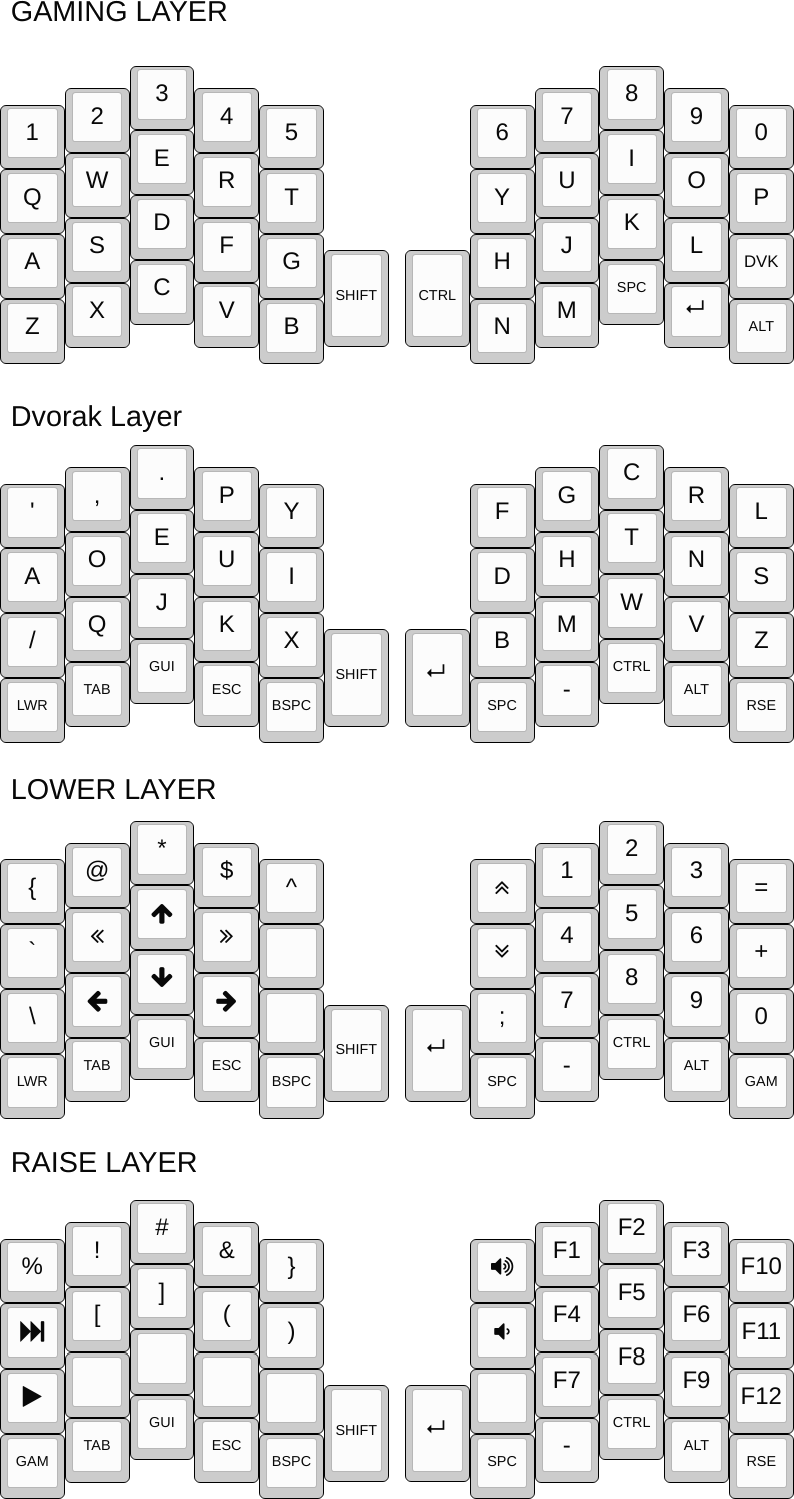
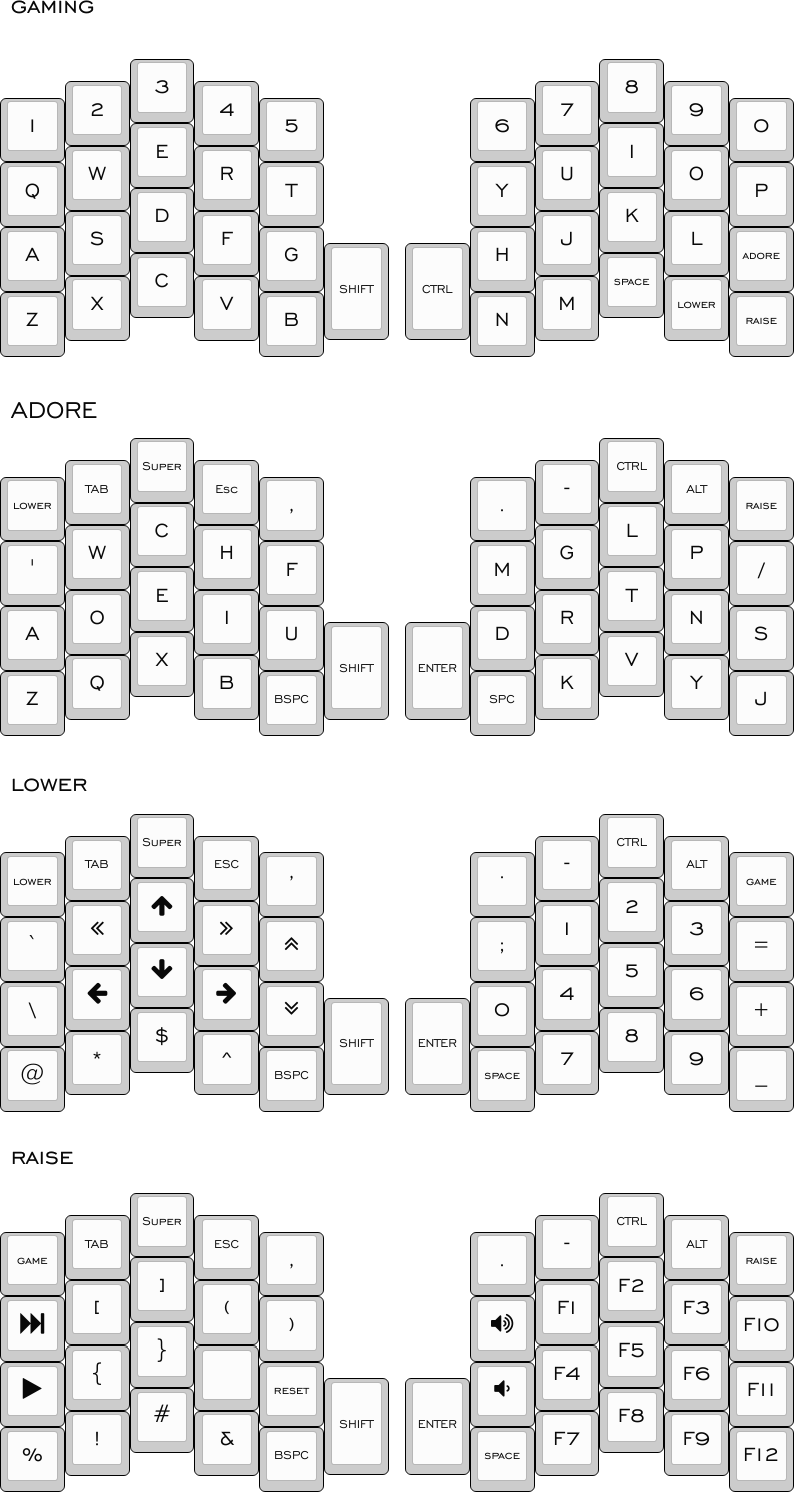
Switch from Dvorak to ADORE and redo the layout a bit
What used to be the bottom row, mostly moved to the top, because my hands keep
gravitating to the bottom. Switching to ADORE fits the layout of the Atreus just
right, as it leaves the key right beside the big thumb keys reusable, and I can
place backspace and space on those locations, where my muscle memory wants them.

diff --git a/src/keymap.h b/src/keymap.h
@@ -29,6 +29,7 @@
 #define Key_And LSHIFT(Key_7)
 #define Key_Star LSHIFT(Key_8)
 #define Key_Plus LSHIFT(Key_Equals)
+#define Key_Underscore LSHIFT(Key_Minus)
 
 /* *INDENT-OFF* */
 KEYMAPS(
@@ -39,48 +40,48 @@ KEYMAPS(
       ,Key_A  ,Key_S ,Key_D ,Key_F ,Key_G
       ,Key_Z  ,Key_X ,Key_C ,Key_V ,Key_B ,Key_LeftShift
 
-                       ,Key_6 ,Key_7 ,Key_8     ,Key_9     ,Key_0
-                       ,Key_Y ,Key_U ,Key_I     ,Key_O     ,Key_P
-                       ,Key_H ,Key_J ,Key_K     ,Key_L     ,LockLayer(DVORAK)
-      ,Key_LeftControl ,Key_N ,Key_M ,Key_Space ,Key_Enter ,Key_LeftAlt
+                       ,Key_6 ,Key_7 ,Key_8     ,Key_9      ,Key_0
+                       ,Key_Y ,Key_U ,Key_I     ,Key_O      ,Key_P
+                       ,Key_H ,Key_J ,Key_K     ,Key_L      ,LockLayer(ADORE)
+      ,Key_LeftControl ,Key_N ,Key_M ,Key_Space ,OSL(LOWER) ,OSL(RAISE)
   ),
 
-  [DVORAK] = KEYMAP_STACKED(
-       Key_Quote    ,Key_Comma ,Key_Period  ,Key_P   ,Key_Y
-      ,Key_A        ,Key_O     ,Key_E       ,Key_U   ,Key_I
-      ,Key_Slash    ,Key_Q     ,Key_J       ,Key_K   ,Key_X
-      ,OSL(LOWER)   ,Key_Tab   ,Key_LeftGui ,Key_Esc ,Key_Backspace ,OSM(LeftShift)
+  [ADORE] = KEYMAP_STACKED(
+       OSL(LOWER) ,Key_Tab ,Key_LeftGui ,Key_Esc ,Key_Comma
+      ,Key_Quote  ,Key_W   ,Key_C       ,Key_H   ,Key_F
+      ,Key_A      ,Key_O   ,Key_E       ,Key_I   ,Key_U
+      ,Key_Z      ,Key_Q   ,Key_X       ,Key_B   ,Key_Backspace ,OSM(LeftShift)
 
-                 ,Key_F     ,Key_G     ,Key_C            ,Key_R        ,Key_L
-                 ,Key_D     ,Key_H     ,Key_T            ,Key_N        ,Key_S
-                 ,Key_B     ,Key_M     ,Key_W            ,Key_V        ,Key_Z
-      ,Key_Enter ,Key_Space ,Key_Minus ,OSM(LeftControl) ,OSM(LeftAlt) ,OSL(RAISE)
+                 ,Key_Period ,Key_Minus ,OSM(LeftControl) ,OSM(LeftAlt) ,OSL(RAISE)
+                 ,Key_M      ,Key_G     ,Key_L            ,Key_P        ,Key_Slash
+                 ,Key_D      ,Key_R     ,Key_T            ,Key_N        ,Key_S
+     ,Key_Enter  ,Key_Space  ,Key_K     ,Key_V            ,Key_Y        ,Key_J
   ),
 
   [LOWER] = KEYMAP_STACKED
   (
-       Key_LeftCurlyBracket  ,Key_At        ,Key_Star      ,Key_Dollar     ,Key_Caret
-      ,Key_Backtick          ,Key_Home      ,Key_UpArrow   ,Key_End        ,XXX
-      ,Key_Backslash         ,Key_LeftArrow ,Key_DownArrow ,Key_RightArrow ,XXX
-      ,___                   ,___           ,___           ,___            ,___       ,___
+       OSL(LOWER)    ,Key_Tab       ,Key_LeftGui   ,Key_Esc        ,Key_Comma
+      ,Key_Backtick  ,Key_Home      ,Key_UpArrow   ,Key_End        ,Key_PageUp
+      ,Key_Backslash ,Key_LeftArrow ,Key_DownArrow ,Key_RightArrow ,Key_PageDown
+      ,Key_At        ,Key_Star      ,Key_Dollar    ,Key_Caret      ,Key_Backspace ,OSM(LeftShift)
 
-           ,Key_PageUp    ,Key_1 ,Key_2 ,Key_3 ,Key_Equals
-           ,Key_PageDown  ,Key_4 ,Key_5 ,Key_6 ,Key_Plus
-           ,Key_Semicolon ,Key_7 ,Key_8 ,Key_9 ,Key_0
-      ,___ ,___           ,___   ,___   ,___   ,M(M_GAMING)
+                 ,Key_Period    ,Key_Minus ,OSM(LeftControl) ,OSM(LeftAlt) ,M(M_GAMING)
+                 ,Key_Semicolon ,Key_1     ,Key_2            ,Key_3        ,Key_Equals
+                 ,Key_0         ,Key_4     ,Key_5            ,Key_6        ,Key_Plus
+      ,Key_Enter ,Key_Space     ,Key_7     ,Key_8            ,Key_9        ,Key_Underscore
    ),
 
   [RAISE] = KEYMAP_STACKED
   (
-       Key_Percent             ,Key_Exclamation ,Key_Hash         ,Key_And       ,Key_RightCurlyBracket
-      ,Consumer_ScanNextTrack  ,Key_LeftBracket ,Key_RightBracket ,Key_LeftParen ,Key_RightParen
-      ,Consumer_PlaySlashPause ,XXX             ,XXX              ,XXX           ,M(M_RESET)
-      ,M(M_GAMING)             ,___             ,___              ,___           ,___                   ,___
+       M(M_GAMING)             ,Key_Tab              ,Key_LeftGui           ,Key_Esc       ,Key_Comma
+      ,Consumer_ScanNextTrack  ,Key_LeftBracket      ,Key_RightBracket      ,Key_LeftParen ,Key_RightParen
+      ,Consumer_PlaySlashPause ,Key_LeftCurlyBracket ,Key_RightCurlyBracket ,XXX           ,M(M_RESET)
+      ,Key_Percent             ,Key_Exclamation      ,Key_Hash              ,Key_And       ,Key_Backspace  ,OSM(LeftShift)
 
-            ,Consumer_VolumeIncrement ,Key_F1 ,Key_F2 ,Key_F3 ,Key_F10
-            ,Consumer_VolumeDecrement ,Key_F4 ,Key_F5 ,Key_F6 ,Key_F11
-            ,XXX                      ,Key_F7 ,Key_F8 ,Key_F9 ,Key_F12
-      ,___  ,___                      ,___    ,___    ,___    ,___
+                 ,Key_Period               ,Key_Minus ,OSM(LeftControl) ,OSM(LeftAlt) ,OSL(RAISE)
+                 ,Consumer_VolumeIncrement ,Key_F1    ,Key_F2           ,Key_F3       ,Key_F10
+                 ,Consumer_VolumeDecrement ,Key_F4    ,Key_F5           ,Key_F6       ,Key_F11
+      ,Key_Enter ,Key_Space                ,Key_F7    ,Key_F8           ,Key_F9       ,Key_F12
    )
 )
 /* *INDENT-ON* */

diff --git a/src/layers.h b/src/layers.h
@@ -18,4 +18,4 @@
 
 #pragma once
 
-enum { GAMING, DVORAK, LOWER, RAISE };
+enum { GAMING, ADORE, LOWER, RAISE };
